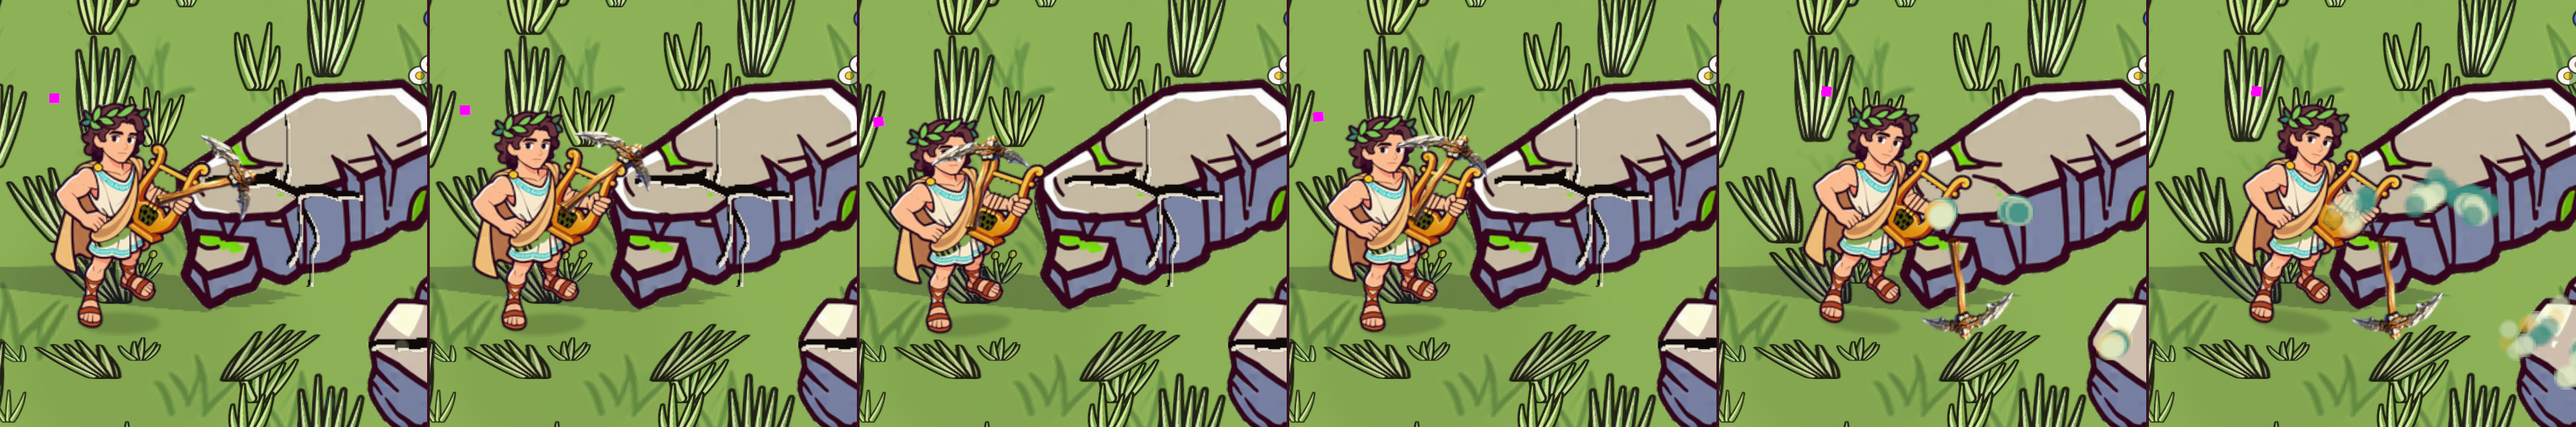
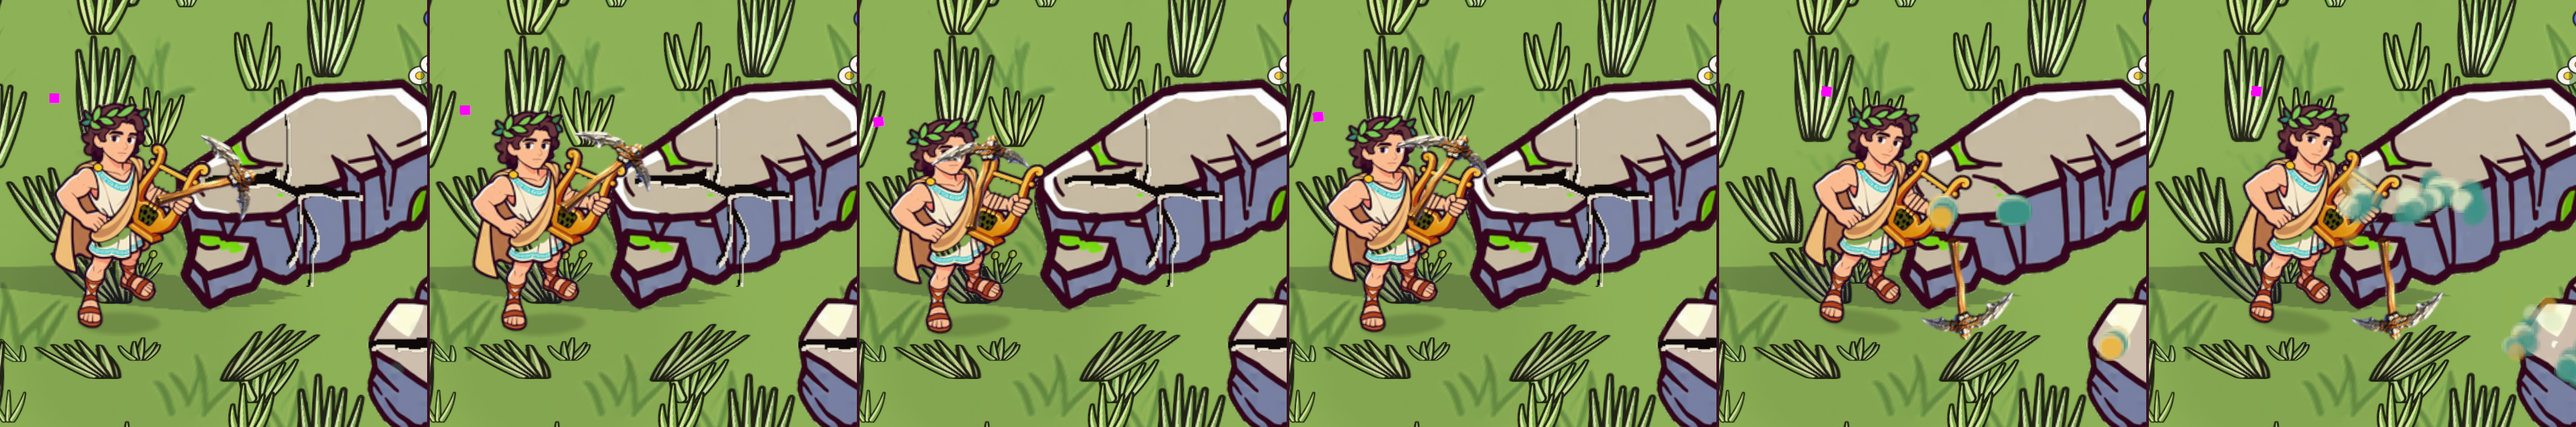
C-028: ответ на (П) — итог проверок после слияния с main (протокол 34): CI 1306, тяжёлые, сборка Smoke/HostSmoke, снимки

diff --git a/work/tasks/C-028.md b/work/tasks/C-028.md
@@ -107,11 +107,9 @@
 
 **Проверки после ответа:** `C028PickStrikeTests` — 21 случай, зелёные; быстрый `tools\ci.ps1` — зелёный, 1295 из 1295 (до правки меди; тесты меди и копания — 101 зелёный после); тяжёлые Release (с медью 2…4): `D08_3_1`, `D08_0_7_DigLine_Big`, `CraftChain_Big` 12 зёрен — зелёные; **`E23_CraftChain_Big_RealWorldV8_Rtt100` — красный**: `CraftChainTests.cs:113` ждёт 0 слитков после кирки, остался 1 (заявок крафта 4 — бот, видимо, переплавил лишнюю пару; разобрать). `tools\build_client.ps1 -Backend Mono -Smoke -HostSmoke` — код 0 (после слияния с main @ 6cade52, до правки ботов и меди).
 
-## Место остановки (18.11, перед закрытием сессии)
+## Место остановки (18.11, после ответа на П — всё сделано)
 
-- Сделано по возврату П: линия взмаха (п. 1), тесты рассылки 56 т и «снят» один раз (п. 2), трещины (п. 3, снимки до/после), слияние с main @ 6cade52 (протокол 33, тип 39, ленты C-031 + C-028), курсор `BuildCursor.Target` (тест), пути в отчёте; боты пропускают незадетую цель; медь 2…4 (гранит ×4 уже был).
-- **Осталось:**
-  1. Координатор: в main слиты C-030 (протокол 33) и C-027 — влить `origin/main` ещё раз, протокол **34**, проверить, что тип 39 свободен, свести проверки номера (`Assert.Equal(33, NetModule.ProtocolVersion)` → 34 в BowNet, Build, Craft, E210, E31, Edit, GroundItem, C028) и «золотые» байты; `net.md` и этот отчёт — 34.
-  2. Разобрать красный `E23_CraftChain_Big_RealWorldV8_Rtt100` (остался 1 слиток — `CraftChainBot` этапы Smelt/Pickaxe, `CraftChainTests.cs:113`).
-  3. Затем: быстрый `tools\ci.ps1`, тяжёлые Release (`D08_3_1`, `CraftChain_Big`, `D08_0_7_DigLine_Big`), `tools\build_client.ps1 -Backend Mono -Smoke -HostSmoke`, лента `--anim-shots` через `tools\run_hidden.ps1` (проверить, что новые ленты main не сдвинули время лент C-028), пуш, удалить `client\Library`, `client\Temp`, `build\client-win`, `build\server-dotnet`.
-- Файлы: `src/Orpheus.Core/World/PickStrike.cs`, `src/Orpheus.Core/Sim/Simulation.StrikeLine.cs`, `src/Orpheus.Net/Session/NetServer.Strike.cs`, `NetClient.Strike.cs`, боты (`DigLineBot.cs`, `CraftChainBot*.cs`, `BuildRoomBot.cs`), `tests/Orpheus.Tests/C028PickStrikeTests.cs`.
+- Второе слияние `origin/main` (C-030 занял протокол 33, C-027): протокол C-028 — **34**, тип «взмах» 39 свободен; проверки номера в 8 тестах сведены; `NetGame.cs` — объединением (трещины C-028 + поза в кровати C-030).
+- Красный `E23_CraftChain_Big_RealWorldV8_Rtt100` (остался 1 слиток) — гонка бота: очередь крафта опустела раньше, чем пришла сводка сумки с последним слитком; при меди до 4 с залежи нашлась лишняя пара руды, и бот плавил девятый. `CraftChainBot.Craft` — пауза 30 кадров после пустой очереди. Зелёный.
+- Итог проверок (после слияния с main @ 3bd208b): быстрый `tools\ci.ps1` — 1306 из 1306; тяжёлые Release — `D08_3_1` (13 мин 21 с), `D08_0_7_DigLine_Big`, `E23_CraftChain_Big_*` 12 зёрен + Rtt100 — зелёные; `toolsuild_client.ps1 -Backend Mono -Smoke -HostSmoke` — код 0; лента `--anim-shots` переснята (`work/screens/C-028_pick_swing.png`, `C-028_pick_cracks.png`, до — `C-028_pick_cracks_before.png`), время лент не сдвинулось, просмотрены.
+- Ждёт повторной проверки (П).
